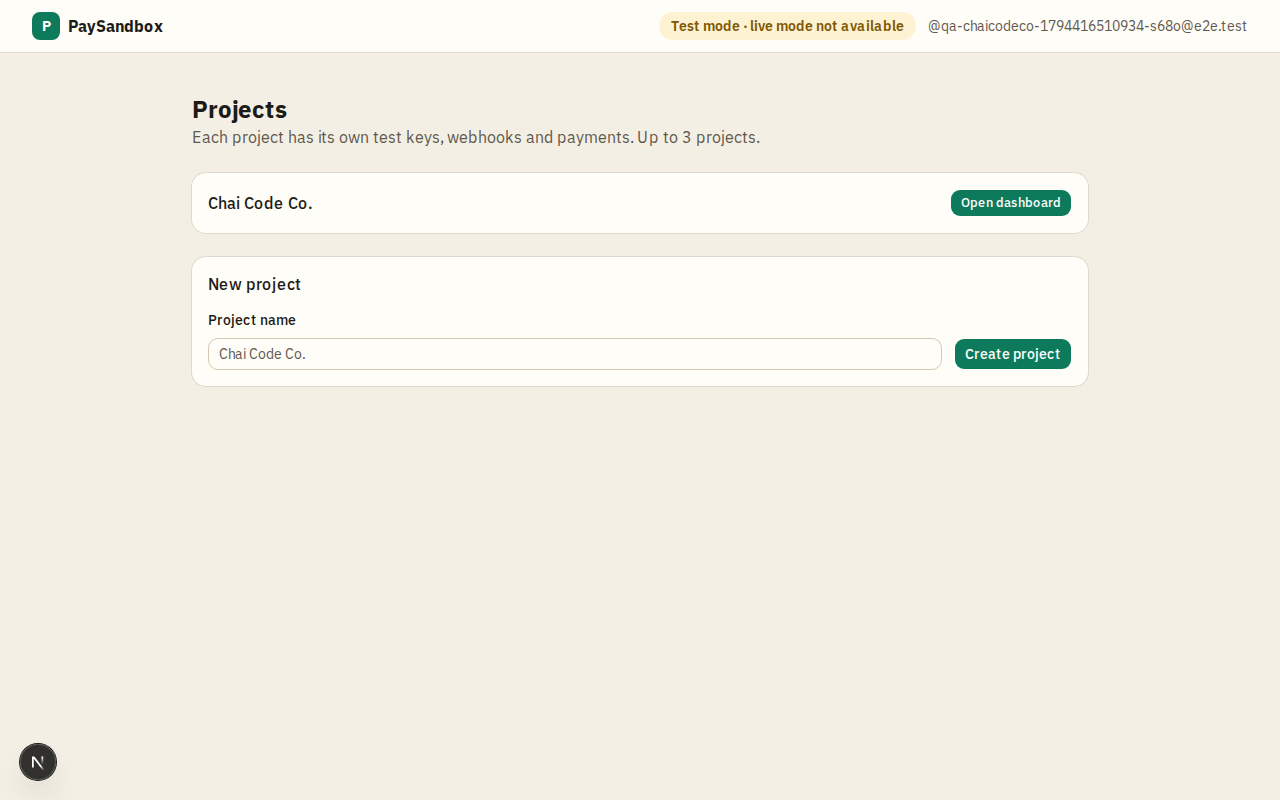
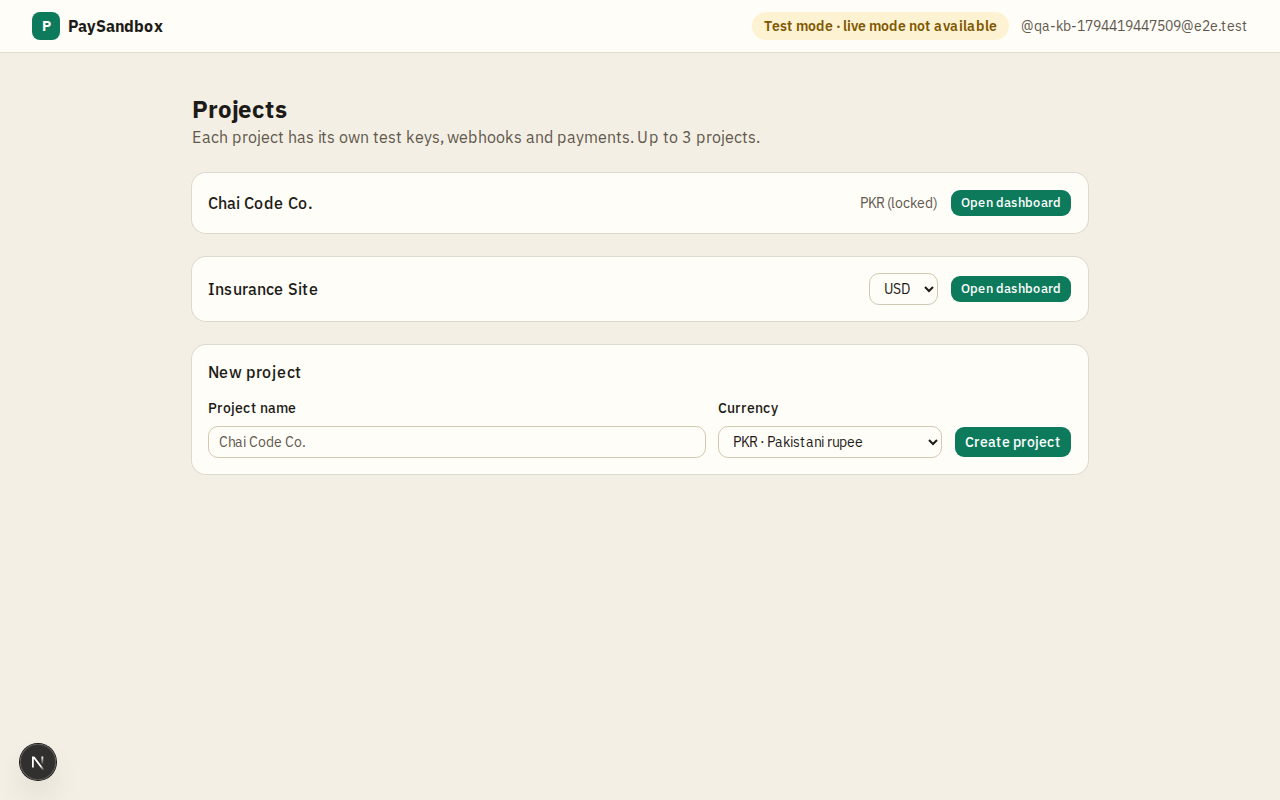
docs(kb): per-project currency (#12)
Overview, glossary, payment lifecycle, projects/overview/checkout/
developers pages, take-a-payment flow and integrations now describe
each project's own currency (PKR, USD, AED, SAR, GBP, EUR), the
per-currency limits and the lock after the first checkout. Future
scope marks multi-currency as done. New projects screenshot.

diff --git a/.claude/knowledgebase/overview/README.md b/.claude/knowledgebase/overview/README.md
@@ -16,7 +16,7 @@ It is also Abdul's portfolio piece, so it shows payments depth: a payment state 
 ## Key entities
 | Entity | Meaning |
 |---|---|
-| **Project** (merchant account) | One integration: its own keys, one webhook address, its own payments and customers. A user owns up to 3. |
+| **Project** (merchant account) | One integration: its own keys, one webhook address, its own payments and customers, and its own **currency**. A user owns up to 3. |
 | **API keys** | A publishable key (only opens the checkout) and a secret key (everything else). Both are test keys; there is no live mode. |
 | **Checkout session** | One "please pay this" request: amount, up to 20 line items, where to send the customer after paying or cancelling. Open for 24 hours. |
 | **Payment** | One attempt to pay a session with a test card. A session can have several attempts (a declined one, then a successful one). |
@@ -29,12 +29,13 @@ It is also Abdul's portfolio piece, so it shows payments depth: a payment state 
 ## Core rules
 - The system shall never accept, store or log a real card number. Only PaySandbox's own test cards work (see [Test cards](../pages/test-cards.md)).
 - The system shall show the TEST MODE banner on every checkout screen, and no merchant setting can hide it.
-- All amounts are in **Pakistani rupees (PKR)**, from PKR 1 to PKR 1,000,000 per checkout.
+- Each project charges in **one currency**, chosen when it is created: PKR (the default), USD, AED, SAR, GBP or EUR. Nothing is ever converted.
+- A checkout is from 1.00 up to PKR 1,000,000, USD 5,000, AED 15,000, SAR 15,000, GBP 4,000 or EUR 4,500, depending on the project's currency.
 - The system shall never show one merchant another merchant's data; a wrong project or payment address shows the 404 page.
 - Everything runs on free tiers; daily caps per project keep one merchant from using them up (see [Safety and limits](safety-and-limits.md)).
 
 ## Not in v1 (on purpose)
-Live mode or real money (ever), currencies other than PKR, a card form inside the merchant's own page, open public sign-up, subscriptions, saved cards, payouts, invoices, team members, more than one webhook address per project, email notifications, merchant logos on the checkout. Several of these are planned: see [Future scope](../future-scope/README.md).
+Live mode or real money (ever), currency conversion, a card form inside the merchant's own page, open public sign-up, subscriptions, saved cards, payouts, invoices, team members, more than one webhook address per project, email notifications, merchant logos on the checkout. Several of these are planned: see [Future scope](../future-scope/README.md).
 
 ## Screenshots
 ![Projects page](../assets/screenshots/account/projects.png)

diff --git a/.claude/knowledgebase/flows/take-a-payment.md b/.claude/knowledgebase/flows/take-a-payment.md
@@ -3,7 +3,7 @@
 **Who:** merchant's server, customer, PaySandbox.
 
 1. The customer clicks "Pay" on the merchant's site.
-2. The merchant's server asks PaySandbox for a **checkout session** with its secret key: the amount, up to 20 line items, the success and cancel addresses, optionally the customer's email, and an idempotency key so a retried request never creates two sessions.
+2. The merchant's server asks PaySandbox for a **checkout session** with its secret key: the amount (in the project's currency; naming the currency is optional), up to 20 line items, the success and cancel addresses, optionally the customer's email, and an idempotency key so a retried request never creates two sessions.
 3. PaySandbox answers with a checkout address; the merchant's site sends the customer there in the same tab.
 4. The customer sees the TEST MODE banner, the order summary and the card form, picks or types a test card and pays.
 5. PaySandbox shows "Processing…" briefly, then the outcome:
@@ -14,7 +14,8 @@
 7. The payment appears in the dashboard with its timeline.
 
 ## Rules
-- The system shall accept amounts from PKR 1 to PKR 1,000,000 and at most 20 line items per session.
+- The system shall accept amounts from 1.00 up to PKR 1,000,000, USD 5,000, AED 15,000, SAR 15,000, GBP 4,000 or EUR 4,500 (by the project's currency), and at most 20 line items per session.
+- The system shall refuse a checkout that names a different currency than the project's, or one PaySandbox doesn't offer.
 - The system shall accept https success and cancel addresses (or `http://localhost` for local development).
 - The system shall return the original answer, marked as a replay, when the same idempotency key is sent again with the same request; a different request with the same key is refused.
 - The system shall expire an unpaid session after 24 hours.

diff --git a/.claude/knowledgebase/future-scope/README.md b/.claude/knowledgebase/future-scope/README.md
@@ -29,7 +29,7 @@ Size: **S** = a few days, **M** = about a week, **L** = two weeks or more.
 | 6 | **[Mobile wallet (simulated)](local-payment-methods.md#mobile-wallet)** | M | Most Pakistani customers pay with a wallet, not a card. |
 | 7 | **[Bank transfer (simulated)](local-payment-methods.md#bank-transfer)**: payment stays pending until funds "arrive" | M | Teaches the pending state, common for large payments like insurance premiums. |
 | 8 | **[Cash on delivery tracking](local-payment-methods.md#cash-on-delivery)** | S | Most local e-commerce still uses it; the merchant marks it collected. |
-| 9 | **Multi-currency display** (AED, USD as well as PKR; no conversion) | M | The UAE-style website and overseas clients can show their own currency. |
+| 9 | ~~Multi-currency~~ **Done (2026-11-11):** each project picks PKR, USD, AED, SAR, GBP or EUR; no conversion | — | Shipped early because PolicyDesk works in USD. |
 
 ### Wave 3: marketplaces and partners
 | # | Feature | Size | Why |
@@ -76,4 +76,4 @@ Size: **S** = a few days, **M** = about a week, **L** = two weeks or more.
 
 ## Open questions
 - Abdul to confirm the wave order; the current order puts the insurance website's needs first.
-- Whether multi-currency should move into wave 1 if the website uses AED.
+- Whether projects should ever take more than one currency (would need per-currency totals and payouts).

diff --git a/.claude/knowledgebase/pages/projects.md b/.claude/knowledgebase/pages/projects.md
@@ -7,16 +7,19 @@ Lists the user's projects (merchant accounts) and creates new ones. Each project
 
 ## What it shows
 - Every project the user owns, by name, each opening that project's overview.
-- A "New project" form with the project name.
+- A "New project" form with the project name and its **currency** (PKR by default; USD, AED, SAR, GBP, EUR).
+- Each project's currency: a picker while the project has no checkouts, then the code marked "(locked)".
 
 ## What the user can do
 - Create a project. Right after creating it, the secret key is shown **once** with an "I've copied it" confirmation; after that only its last 4 characters are visible.
+- Change a project's currency until its first checkout (a toast confirms it).
 - Open a project.
 
 ## Rules
 - The system shall allow at most 3 projects per user.
 - The system shall accept project names of 2–40 characters and refuse names that copy real Pakistani bank or wallet names.
 - The system shall create a publishable key and a secret key for every new project and show the secret key only once.
+- The system shall lock a project's currency after its first checkout, so its payments and totals never mix currencies.
 
 ## Open questions
 - None.

diff --git a/.claude/knowledgebase/integrations/README.md b/.claude/knowledgebase/integrations/README.md
@@ -15,7 +15,7 @@ A separate website, inspired by the flow of a UAE insurance comparison site, tha
 
 Step 1 (agreed):
 - A visitor fills a lead form → sees plans → picks a plan with add-ons → pays on the PaySandbox hosted checkout → lands on a thank-you page.
-- Add-ons are per plan: **included** (sent as a line item at 0), **optional paid**, or **pre-ticked**. Everything goes to PaySandbox as **one payment with line items**.
+- Add-ons are per plan: **included** (sent as a line item at 0), **optional paid**, or **pre-ticked**. Everything goes to PaySandbox as **one payment with line items**, in a **USD project** so amounts match PolicyDesk.
 - An advisor is shown in the website header from the plans page on.
 - The `payment.succeeded` webhook marks the order paid.
 

diff --git a/.claude/knowledgebase/overview/payment-lifecycle.md b/.claude/knowledgebase/overview/payment-lifecycle.md
@@ -38,7 +38,7 @@ open session ──pay──▶ processing ──▶ succeeded ──partial ref
 - When a dispute is won, the system shall put the payment back in the state it had before the dispute.
 
 ## Events sent to the merchant
-`payment.succeeded`, `payment.failed`, `payment.requires_action`, `refund.created`, `dispute.created`, `dispute.closed`. Each carries a snapshot of the object at that moment, amounts in paisa, and `livemode: false`.
+`payment.succeeded`, `payment.failed`, `payment.requires_action`, `refund.created`, `dispute.created`, `dispute.closed`. Each carries a snapshot of the object at that moment, amounts in the smallest unit of the project's currency with the `currency` code, and `livemode: false`.
 
 ## Open questions
 - None.

diff --git a/.claude/knowledgebase/overview/glossary.md b/.claude/knowledgebase/overview/glossary.md
@@ -2,7 +2,8 @@
 
 | Term | Meaning |
 |---|---|
-| **Paisa** | 1/100 of a rupee. All amounts are stored and sent in paisa (PKR 1,500 = 150000). |
+| **Project currency** | The one currency a project charges in: PKR, USD, AED, SAR, GBP or EUR. It can change only until the project's first checkout. |
+| **Smallest unit** | 1/100 of the currency: paisa, cents, fils. All amounts are stored and sent in it (PKR 1,500 = 150000; USD 299.99 = 29999). |
 | **Publishable key** (`pk_test_…`) | Safe to show in a browser. It can only open the checkout. |
 | **Secret key** (`sk_test_…`) | Server-only. Starts checkouts, reads payments, makes refunds. |
 | **Checkout session** (`cs_test_…`) | One request to pay; it gives the customer a checkout address. |

diff --git a/.claude/knowledgebase/README.md b/.claude/knowledgebase/README.md
@@ -24,4 +24,5 @@ Live at https://paysandbox.vercel.app (invite-only).
 | v0.1.0 (Plan 1) | Invite-only GitHub sign-in, projects and keys, checkout sessions, hosted checkout with every test-card outcome and OTP, redirect back |
 | v0.2.0 (Plan 2) | Signed webhooks with retries, session expiry and dispute deadline timers, refunds, disputes |
 | v0.3.0 (Plan 3) | Merchant dashboard: overview, payments, customers, disputes, test cards, developers page, webhooks, API request log, project switcher |
+| Per-project currency | Each project charges in its own currency: PKR, USD, AED, SAR, GBP or EUR |
 | Plan 4 (written, not built) | Guest demo sandboxes, demo store, public docs page, admin page, security and release checks |

diff --git a/.claude/knowledgebase/future-scope/split-payments.md b/.claude/knowledgebase/future-scope/split-payments.md
@@ -14,7 +14,7 @@ A **platform** project connects **sellers** (connected accounts). One customer p
 - **Disputes** take the disputed amount from the seller's balance; if that goes negative, it is recovered from their next sales.
 
 ## Rules
-- The system shall make the split add up exactly to the amount paid, in paisa, with any rounding remainder going to the platform.
+- The system shall make the split add up exactly to the amount paid, in the smallest currency unit, with any rounding remainder going to the platform.
 - The system shall never let a seller see another seller's sales or the platform's fee rules.
 - The system shall send webhooks to the platform for every split, refund reversal and dispute deduction.
 

diff --git a/.claude/knowledgebase/future-scope/affiliates.md b/.claude/knowledgebase/future-scope/affiliates.md
@@ -13,7 +13,7 @@ Partners (affiliates, influencers, agents) get a referral link or code. When a c
 - Each affiliate gets a statement: clicks (if tracked by the site), sales, commissions by state.
 
 ## Rules
-- The system shall calculate commissions in paisa from the amount actually kept (after refunds).
+- The system shall calculate commissions in the smallest currency unit from the amount actually kept (after refunds).
 - The system shall reverse a commission when its payment is refunded or a dispute is lost, even after it was approved.
 - The system shall send webhooks when a commission is created, approved, reversed or paid, so a CRM can show it to the partner manager.
 

diff --git a/.claude/knowledgebase/pages/hosted-checkout.md b/.claude/knowledgebase/pages/hosted-checkout.md
@@ -7,7 +7,7 @@ PaySandbox's own payment page. The customer pays a checkout session with a test 
 
 ## What it shows
 - The TEST MODE banner, always.
-- The merchant's name and the order summary (line items and total in PKR).
+- The merchant's name and the order summary (line items and total in the project's currency).
 - A card form (email, name, card number, expiry, CVC) and a picker with the main test cards.
 - After paying: a success screen with a button back to the merchant, or a decline screen with the reason and "Try another card".
 - For card 3220: the simulated "Sandbox Bank" OTP screen.

diff --git a/.claude/knowledgebase/pages/developers.md b/.claude/knowledgebase/pages/developers.md
@@ -7,7 +7,7 @@ Everything a developer needs to connect a site: keys, ready-to-copy code and tod
 
 ## What it shows
 - **Publishable key** in full, and the **secret key** as its last 4 characters.
-- Code snippets: create a checkout session (curl and a Next.js route handler) and verify a webhook.
+- Code snippets: create a checkout session (curl and a Next.js route handler, in the project's currency) and verify a webhook.
 - **Today's usage** against the daily caps: API requests, checkout sessions, webhook attempts, test events. Resets at midnight Pakistan time.
 
 ## What the user can do
